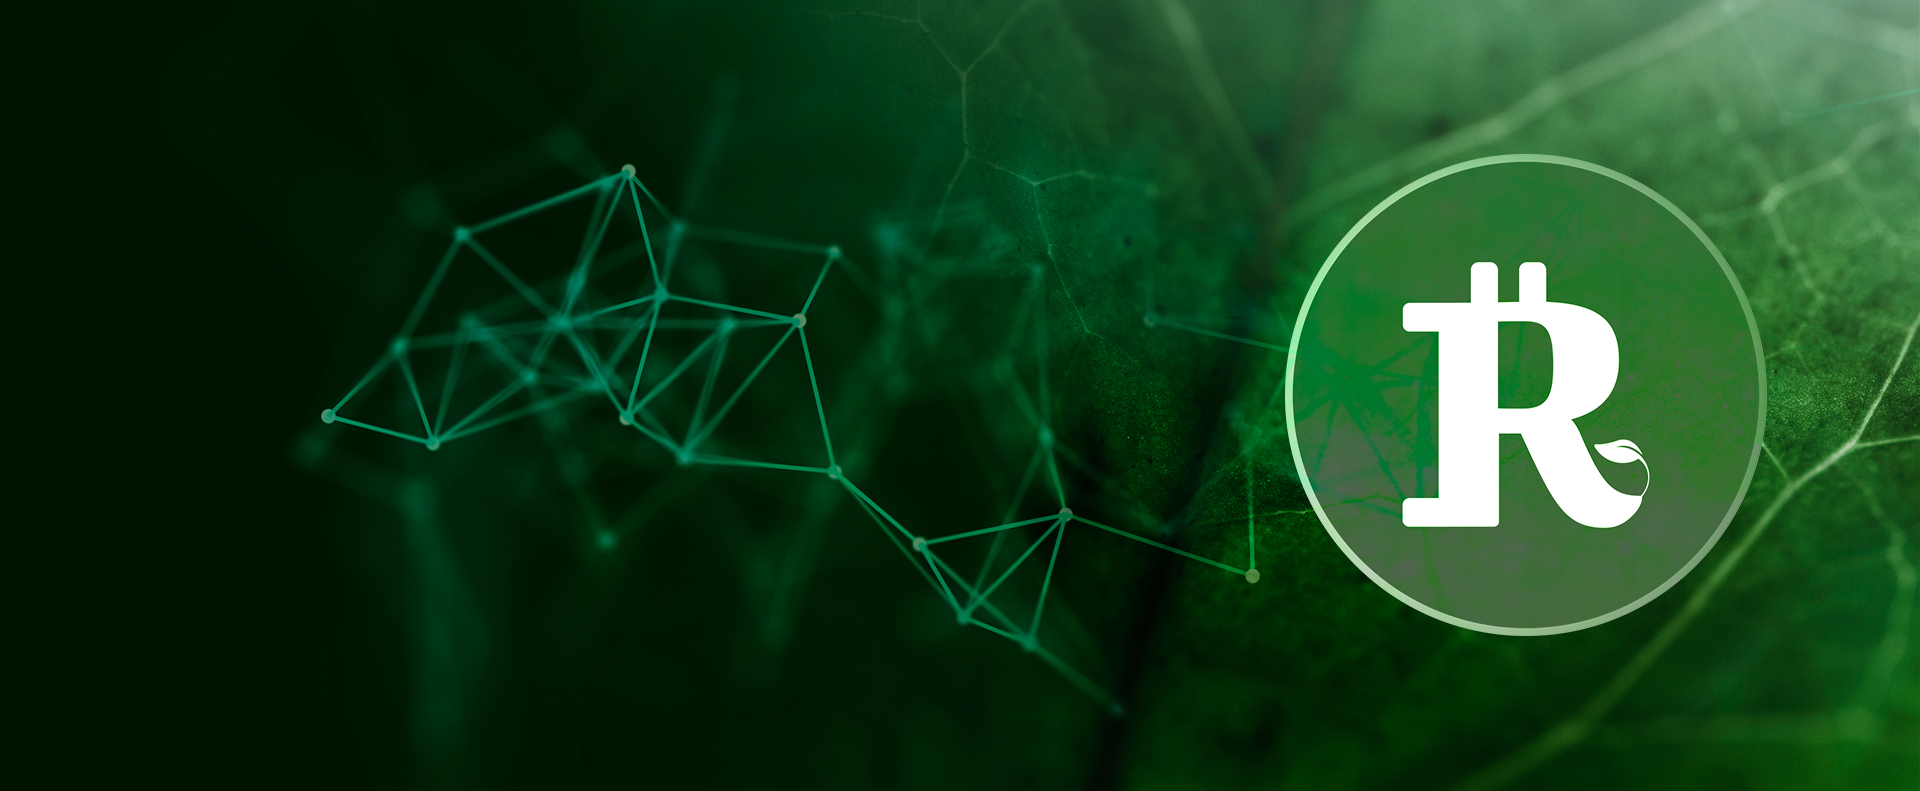
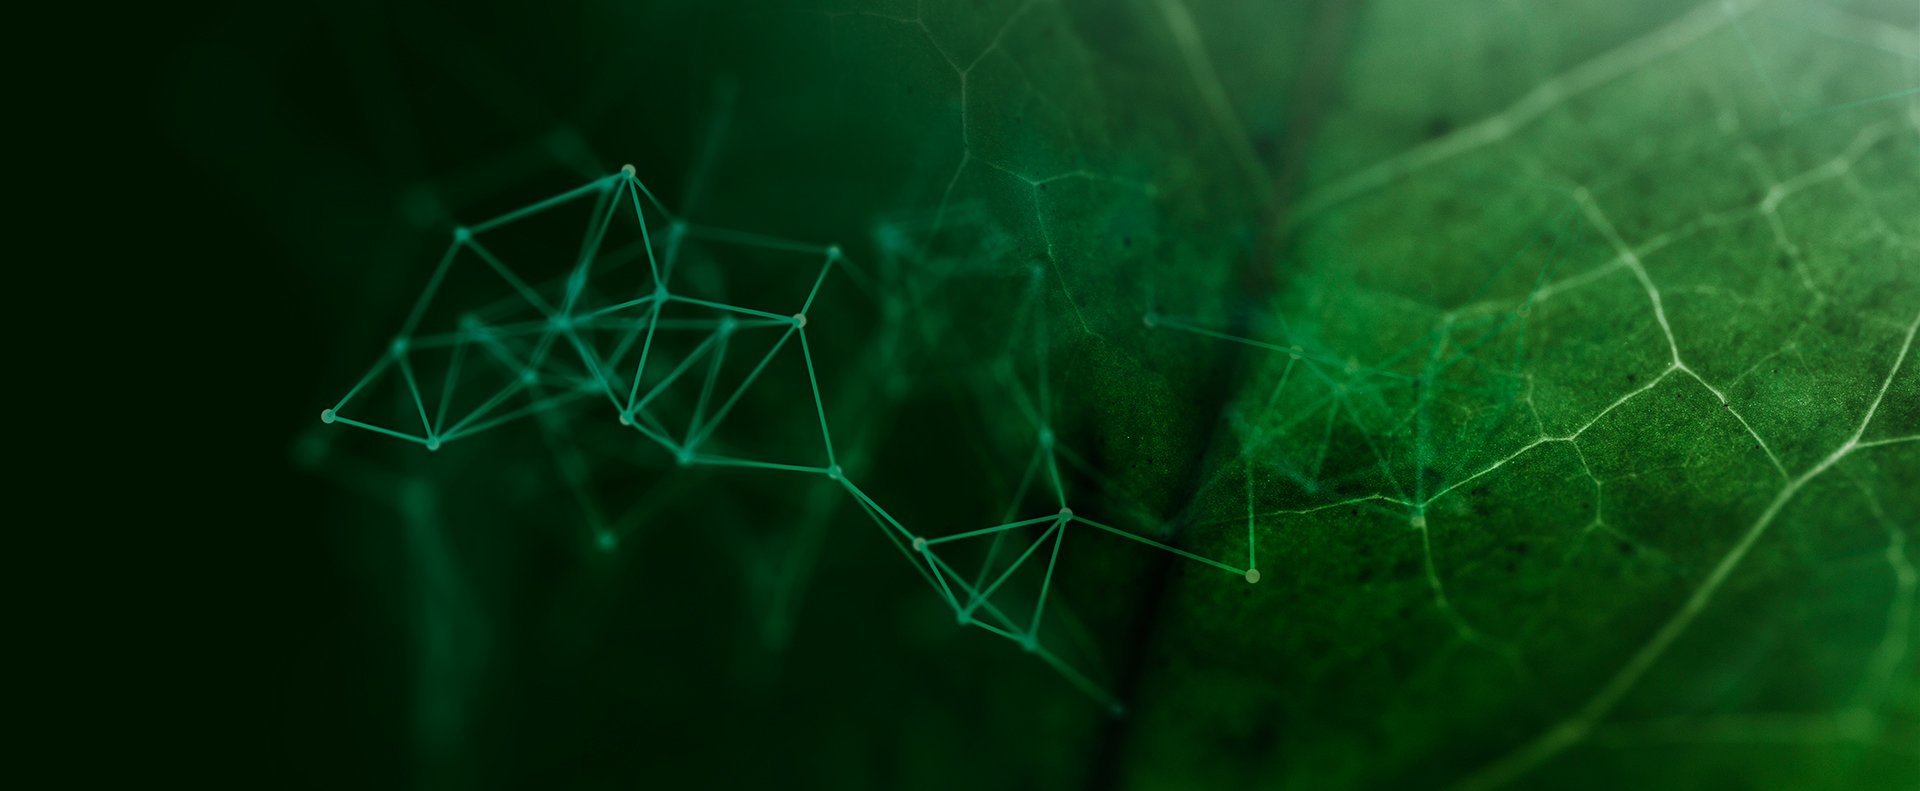
feat: add section pre sale

Changed region(s): [[0.6562, 0.2731, 0.9375, 0.8192], [0.7188, 0.182, 0.875, 0.2731]]

diff --git a/pages/index.tsx b/pages/index.tsx
@@ -54,7 +54,7 @@ export async function getStaticProps({ locale }: StaticProps) {
 const Home: NextPage = (_props: InferGetStaticPropsType<typeof getStaticProps>) => {
     const router = useRouter();
     const { t } = useTranslation('common');
-    const [days, hours, minutes, seconds] = useCountdown('2023-11-30 23:59:59');
+    const [days, hours, minutes, seconds] = useCountdown('2024-06-25 23:59:59');
     const [networkImpact, setNetworkImpact] = useState({} as ImpactProps);
     const [confirmImpact, setConfirmImpact] = useState({} as ImpactProps);
     const [burnedImpact, setBurnedImpact] = useState({} as ImpactProps);
@@ -146,7 +146,7 @@ const Home: NextPage = (_props: InferGetStaticPropsType<typeof getStaticProps>) 
                 </section>
             </div>
 
-            <Link
+            {/* <Link
                 className='flex flex-col px-2 items-center justify-center gap-5 lg:w-[1000px] pt-10 pb-10'
                 target='_blank'
                 href='https://app.sintrop.com/pre-sale'
@@ -162,7 +162,69 @@ const Home: NextPage = (_props: InferGetStaticPropsType<typeof getStaticProps>) 
                     src={require('../public/assets/banner-mobile.jpg')}
                     className='w-full h-[130px] rounded-md border-4 border-yellow-400 lg:hidden'
                 />
-            </Link>
+            </Link> */}
+
+            <section className='flex flex-col px-2 items-center justify-center gap-5 lg:flex-row lg:w-[1000px] pt-10 pb-10 bg-presale my-10 rounded-md'>
+                <div className='flex flex-col lg:w-[50%]'>
+                    <h3 className='font-bold text-white text-4xl'>PRÉ-VENDA</h3>
+                    <h3 className='font-bold text-green-500 text-4xl'>Crédito de regeneração</h3>
+
+                    <p className="text-sm text-white mt-5">Essa oferta encerra em (25/06/2024)</p>
+                    <div className="flex items-center gap-2">
+                        <div className="flex flex-col p-2 rounded-md bg-green-500 w-16 items-center">
+                            <p className="font-bold text-white text-xl">{days}</p>
+                            <p className="text-center text-xs text-white">Dias</p>
+                        </div>
+                        <div className="flex flex-col p-2 rounded-md bg-green-500 w-16 items-center">
+                            <p className="font-bold text-white text-xl">{hours}</p>
+                            <p className="text-center text-xs text-white">Horas</p>
+                        </div>
+                        <div className="flex flex-col p-2 rounded-md bg-green-500 w-16 items-center">
+                            <p className="font-bold text-white text-xl">{minutes}</p>
+                            <p className="text-center text-xs text-white">Minutos</p>
+                        </div>
+                        <div className="flex flex-col p-2 rounded-md bg-green-500 w-16 items-center">
+                            <p className="font-bold text-white text-xl">{seconds}</p>
+                            <p className="text-center text-xs text-white">Segundos</p>
+                        </div>
+                    </div>
+                </div>
+
+                <div className='flex flex-col lg:w-[50%]'>
+                    <div className="flex flex-col border border-green-500 bg-[rgba(0,0,0,0.6)] rounded-md p-2 gap-1 mt-3">
+                        <div className="flex items-center w-full justify-between">
+                            <h3 className="text-gray-200 text-xs lg:text-sm">Tokens ofertados</h3>
+                            <p className="font-bold text-green-500 text-sm lg:text-base">39.000.000</p>
+                        </div>
+                        <div className="flex items-center w-full justify-between">
+                            <h3 className="text-gray-200 text-xs lg:text-sm">% da oferta privada</h3>
+                            <p className="font-bold text-green-500 text-sm lg:text-base">9,12 %</p>
+                        </div>
+                        <div className="flex items-center w-full justify-between">
+                            <h3 className="text-gray-200 text-xs lg:text-sm">Valor unitário</h3>
+                            <p className="font-bold text-green-500 text-sm lg:text-base">R$ 0,0282</p>
+                        </div>
+                        <div className="flex items-center w-full justify-between">
+                            <h3 className="text-gray-200 text-xs lg:text-sm">Alvo de capitalização</h3>
+                            <p className="font-bold text-green-500 text-sm lg:text-base">R$ 1.100.000,00</p>
+                        </div>
+                        <div className="flex items-center w-full justify-between">
+                            <h3 className="text-gray-200 text-xs lg:text-sm">Capitalização de mercado</h3>
+                            <p className="font-bold text-green-500 text-sm lg:text-base">R$ 12.057.692,31</p>
+                        </div>
+                    </div>
+
+                    <div className='flex justify-center mt-5'>
+                        <Link
+                            className='py-2 px-5 bg-red-500 rounded-md text-white font-bold text-sm'
+                            target='_blank'
+                            href='https://app.sintrop.com/pre-sale'
+                        >
+                            Acessar pré-venda
+                        </Link>
+                    </div>
+                </div>
+            </section>
 
             <section className='flex flex-col px-2 items-center justify-center gap-5 lg:w-[1000px] pt-10 pb-10 lg:px-0'>
                 <div className="flex flex-col items-center justify-between w-full lg:flex-row">

diff --git a/tailwind.config.js b/tailwind.config.js
@@ -24,7 +24,8 @@ module.exports = {
         "credit-investor": "url('../public/assets/bg-credit-investor.png')",
         "arvore-2": "url('../public/assets/arvore-2.png')",
         "new-home": "url('../public/assets/new-bg-home.jpg')",
-        "post": "url('https://firebasestorage.googleapis.com/v0/b/bolaofutebol-be9d3.appspot.com/o/post.png?alt=media&token=e3bbf779-77e4-4ce9-a3ff-61d8bea854a1')"
+        "post": "url('https://firebasestorage.googleapis.com/v0/b/bolaofutebol-be9d3.appspot.com/o/post.png?alt=media&token=e3bbf779-77e4-4ce9-a3ff-61d8bea854a1')",
+        "presale": "url('../public/assets/bg-presale.jpg')",
       }
     },
   },
